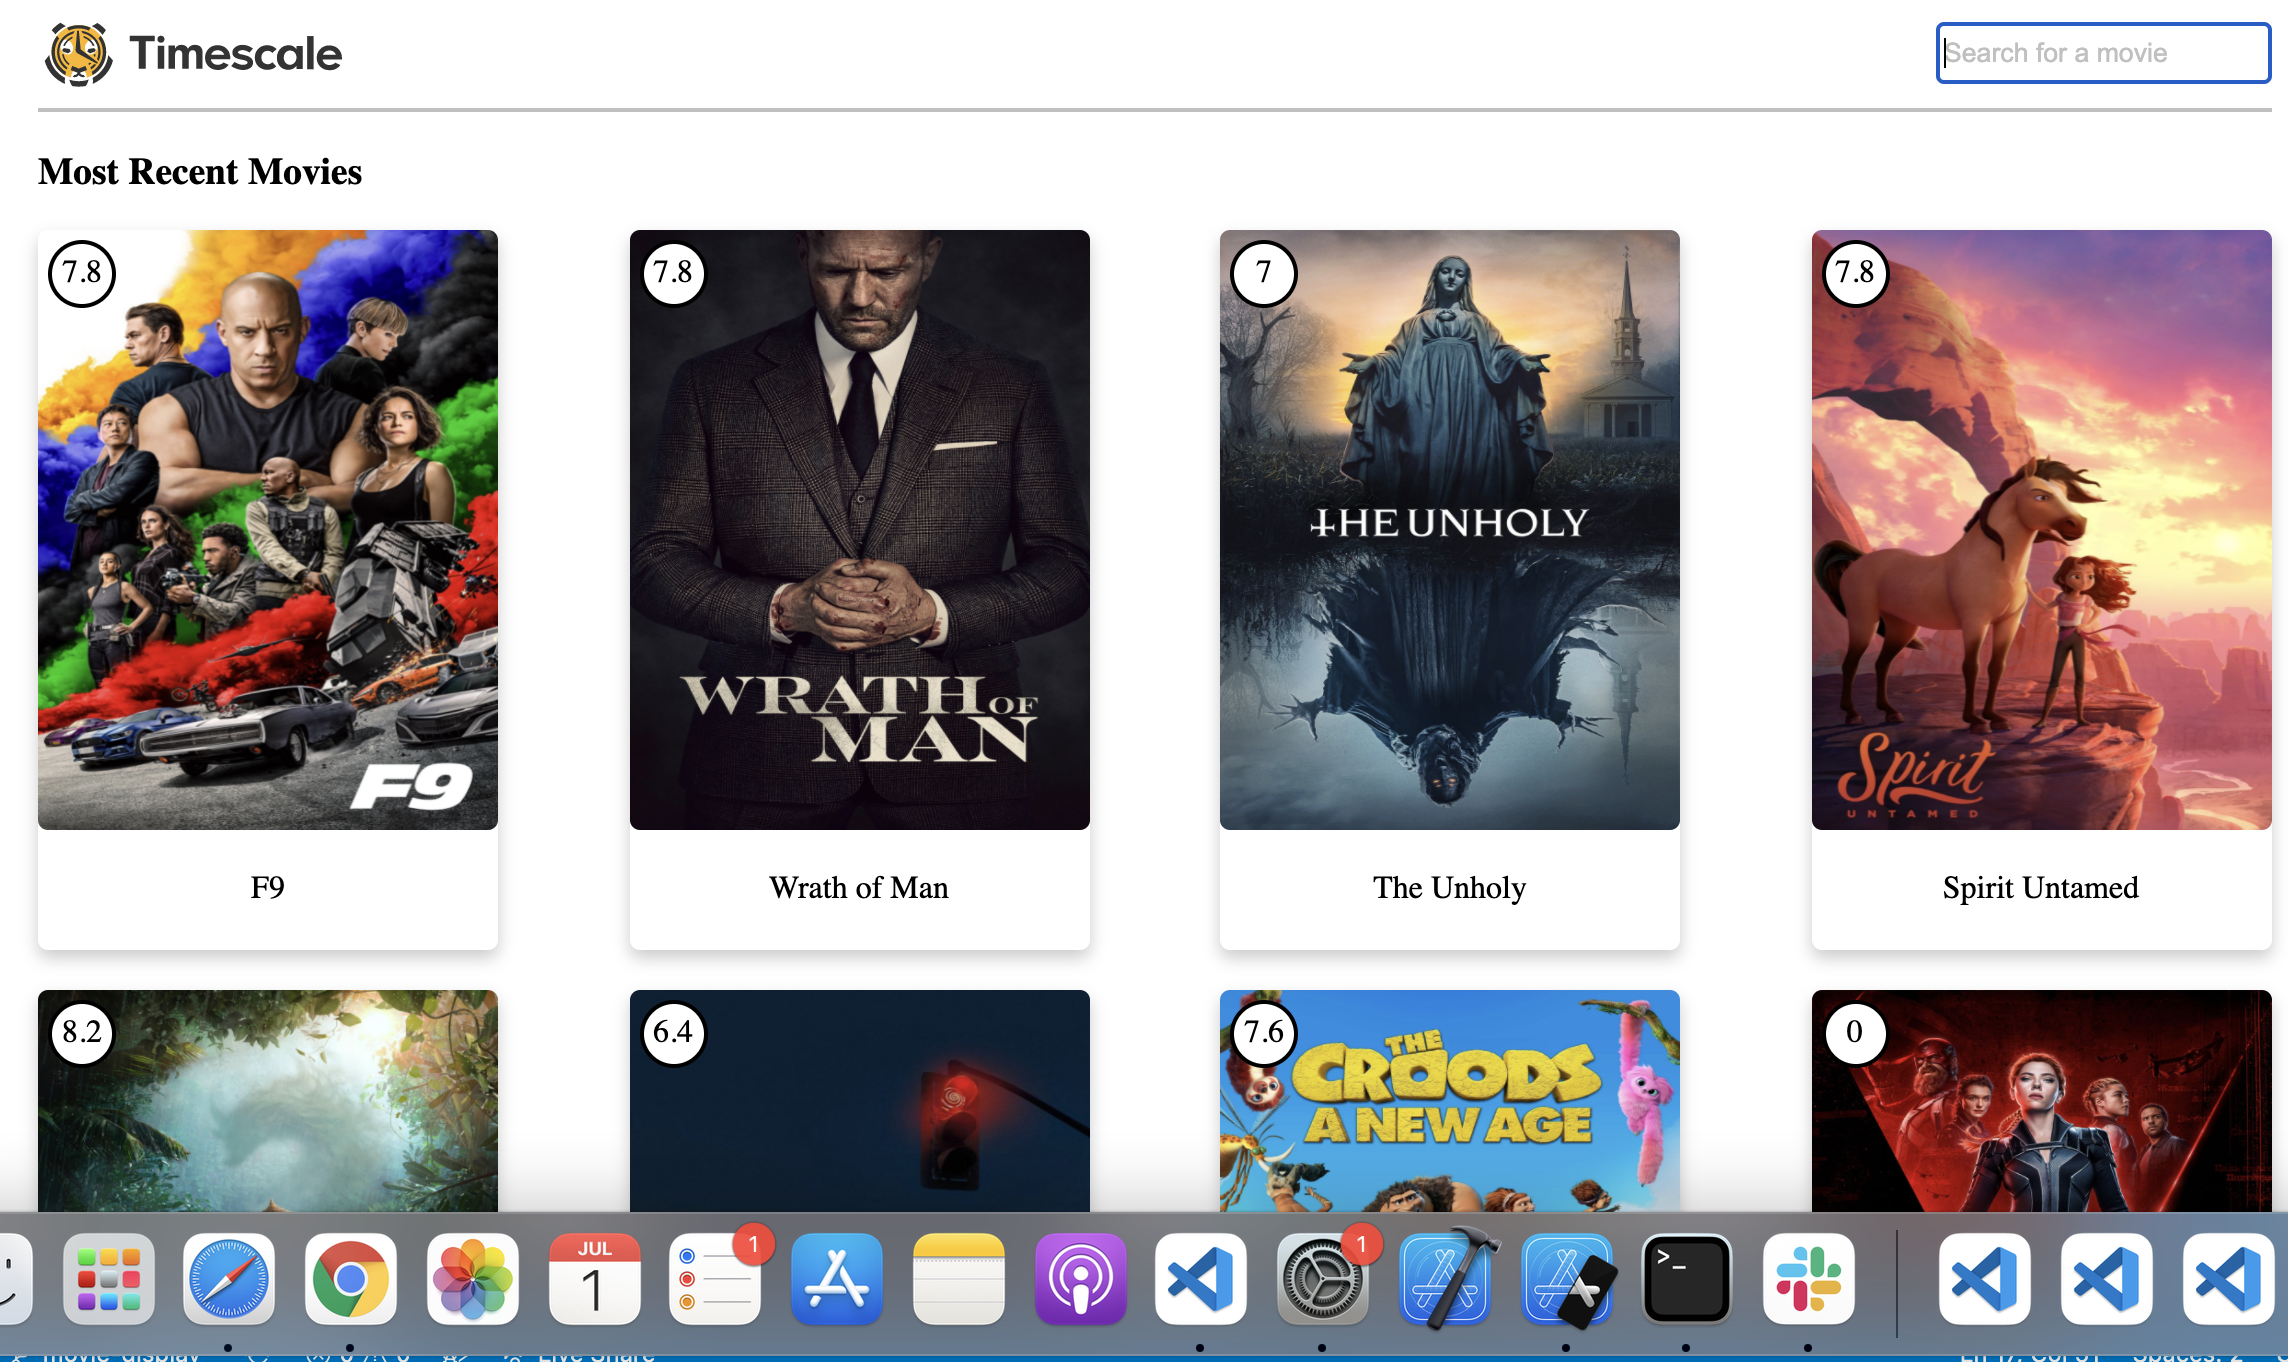
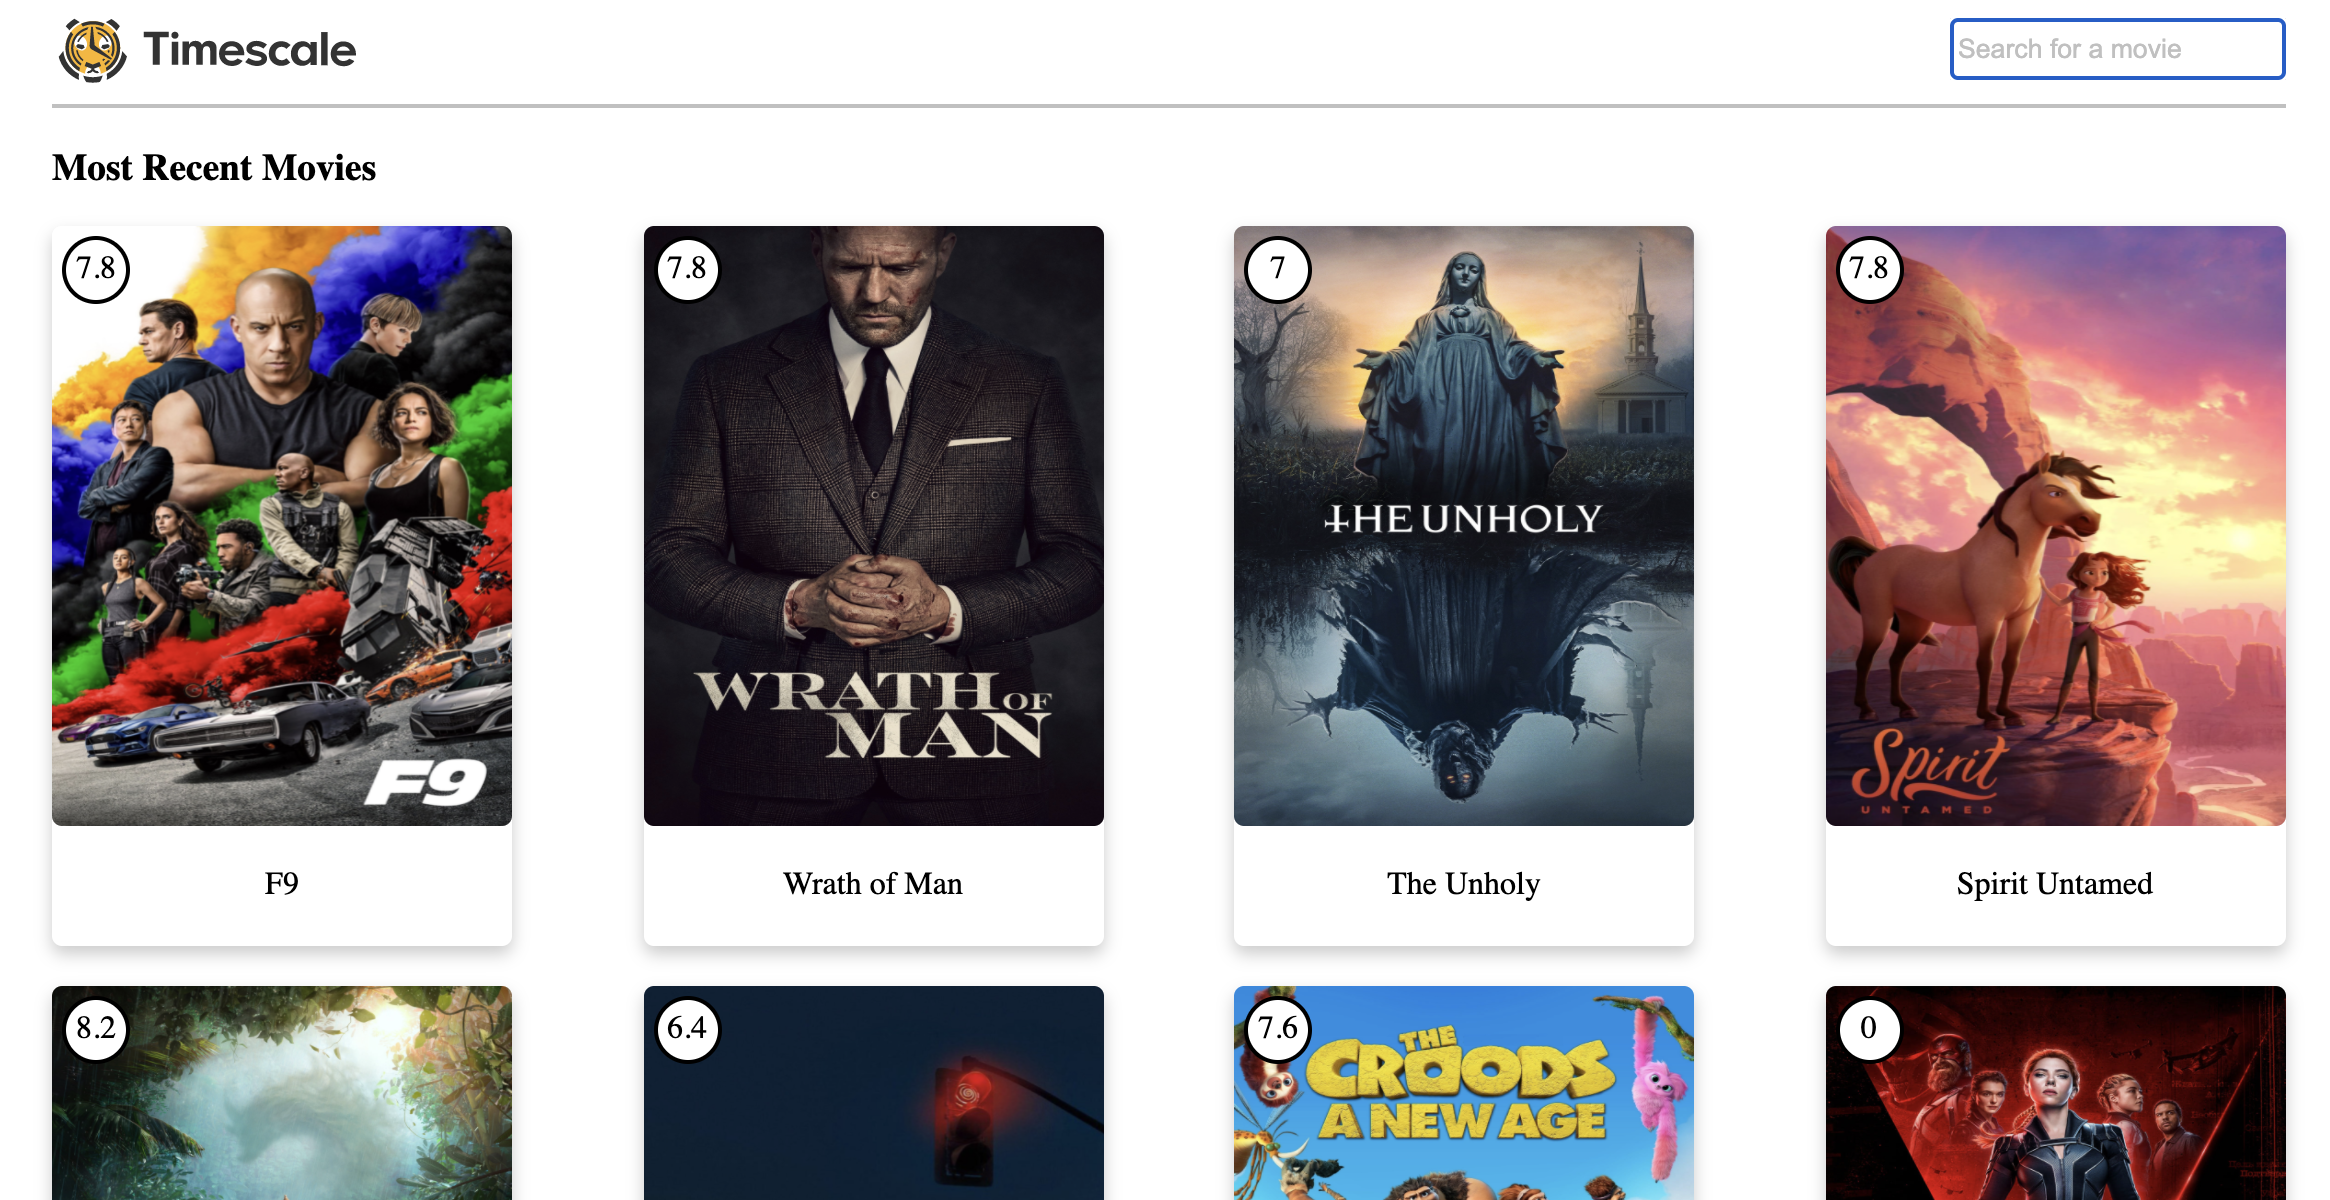
different readme image

diff --git a/README.md b/README.md
@@ -12,5 +12,5 @@ To run this application you must
 - `npm start`
 
 <p align="center">
-    <img alt="home page" src="./src/images/project.png" width="500" height="500">
+    <img alt="home page" src="./src/images/project.png" width="500" height="300">
 </p>
